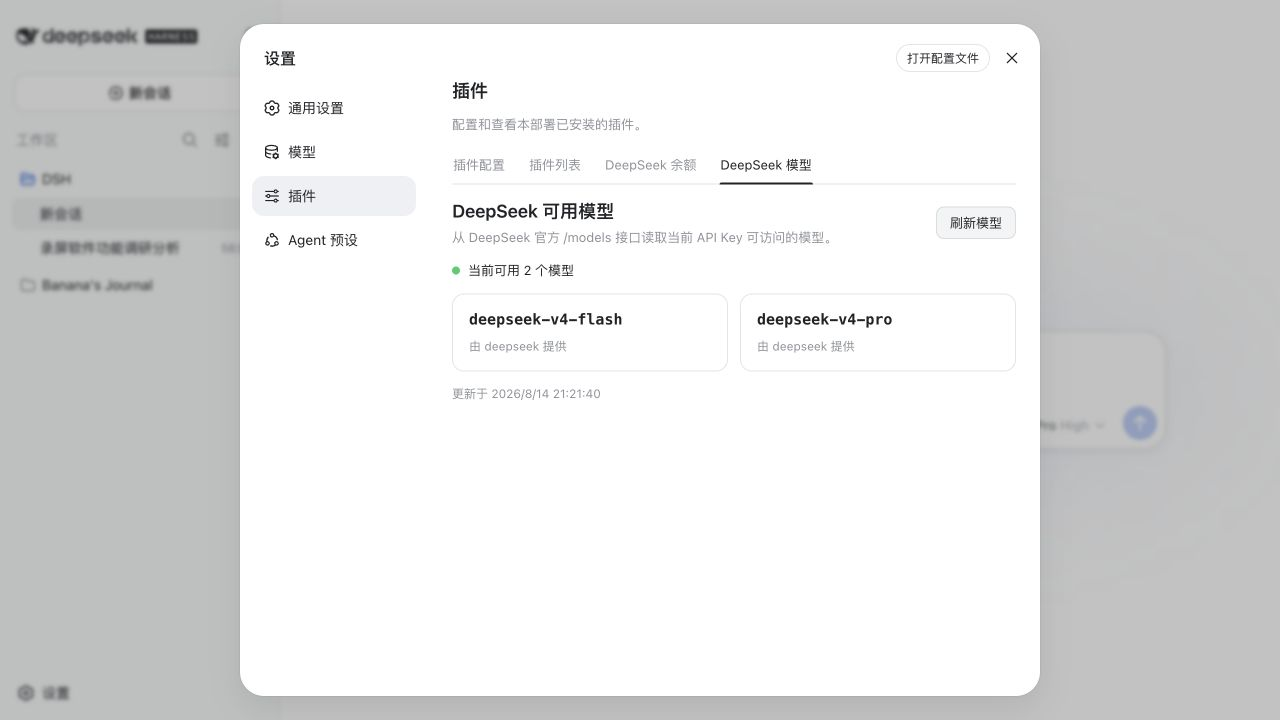
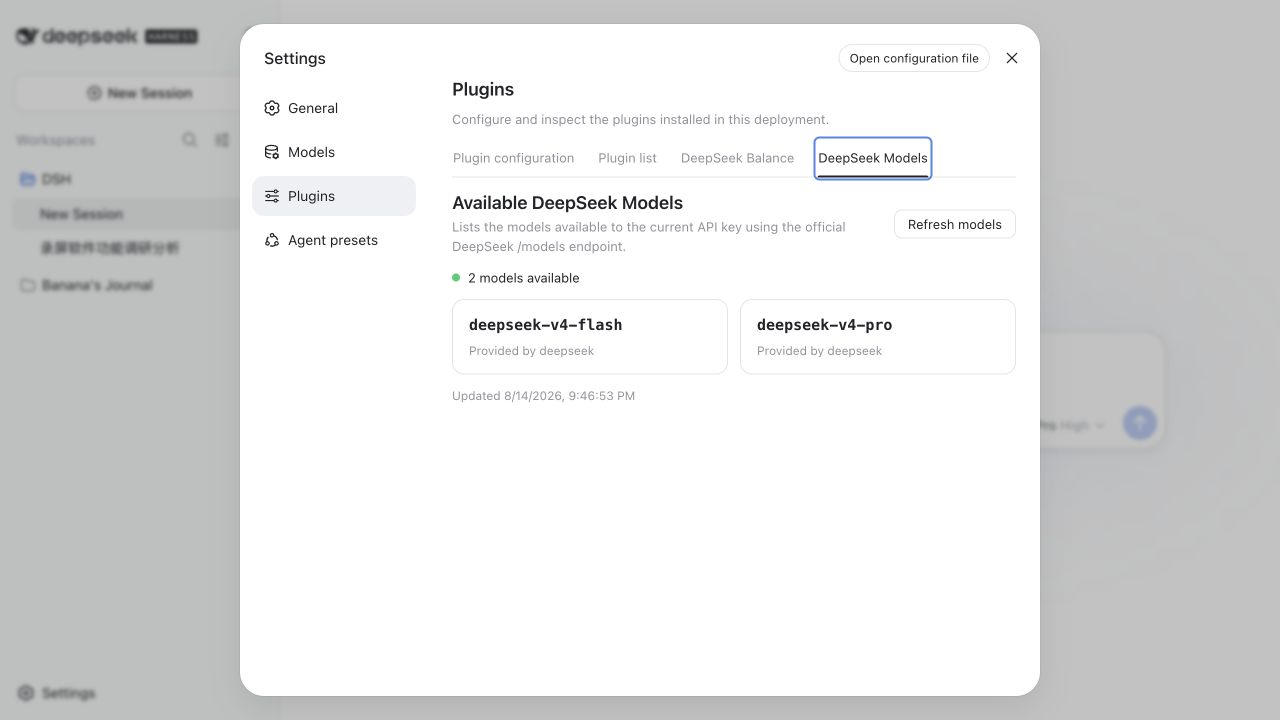
feat: add native en zh localization (#1)
Add native DSH locale support for Simplified Chinese and English, including live language switching, localized balance/model UI, tests, and updated screenshots.

diff --git a/src/client/BalanceTab.tsx b/src/client/BalanceTab.tsx
@@ -1,18 +1,20 @@
 import { useCallback, useEffect, useState } from 'react'
-import type { InjectFace, PropsRuntime } from '@deepseek-ai/dsh-client-ui-slots'
+import type { InjectFace, PropsLocale, PropsRuntime } from '@deepseek-ai/dsh-client-ui-slots'
 import type { BalanceApiResponse, BalanceInfo } from '../types.ts'
+import { errorLocaleKey } from './locales.ts'
+import type { LOCALE_NS } from './locales.ts'
 
 export interface BalanceTabInjected {
   loadBalance: (forceRefresh: boolean, signal: AbortSignal) => Promise<BalanceApiResponse>
 }
 
-export type BalanceTabProps = PropsRuntime<'settings.plugins.tab'> & InjectFace<BalanceTabInjected>
+export type BalanceTabProps = PropsRuntime<'settings.plugins.tab'> & InjectFace<BalanceTabInjected> & PropsLocale<typeof LOCALE_NS>
 
-function displayAmount(value: string, currency: string): string {
+function displayAmount(value: string, currency: string, locale: string): string {
   const amount = Number(value)
   if (!Number.isFinite(amount)) return `${value} ${currency}`
   try {
-    return new Intl.NumberFormat('zh-CN', {
+    return new Intl.NumberFormat(locale, {
       style: 'currency',
       currency,
       minimumFractionDigits: 2,
@@ -23,24 +25,24 @@ function displayAmount(value: string, currency: string): string {
   }
 }
 
-function BalanceCard({ info }: { info: BalanceInfo }) {
+function BalanceCard({ info, t }: { info: BalanceInfo; t: BalanceTabProps['t'] }) {
   return (
     <article className="dsh-balance-card">
       <div className="dsh-balance-card-head">
         <span className="dsh-balance-currency">{info.currency}</span>
       </div>
-      <p className="dsh-balance-total">{displayAmount(info.totalBalance, info.currency)}</p>
+      <p className="dsh-balance-total">{displayAmount(info.totalBalance, info.currency, t('locale.tag'))}</p>
       <dl className="dsh-balance-breakdown">
-        <dt>充值余额</dt>
-        <dd>{displayAmount(info.toppedUpBalance, info.currency)}</dd>
-        <dt>赠送余额</dt>
-        <dd>{displayAmount(info.grantedBalance, info.currency)}</dd>
+        <dt>{t('balance.toppedUp')}</dt>
+        <dd>{displayAmount(info.toppedUpBalance, info.currency, t('locale.tag'))}</dd>
+        <dt>{t('balance.granted')}</dt>
+        <dd>{displayAmount(info.grantedBalance, info.currency, t('locale.tag'))}</dd>
       </dl>
     </article>
   )
 }
 
-export function BalanceTab({ loadBalance }: BalanceTabProps) {
+export function BalanceTab({ loadBalance, t }: BalanceTabProps) {
   const [result, setResult] = useState<BalanceApiResponse>()
   const [loading, setLoading] = useState(true)
 
@@ -53,7 +55,7 @@ export function BalanceTab({ loadBalance }: BalanceTabProps) {
       setResult({
         ok: false,
         code: 'UPSTREAM_UNAVAILABLE',
-        message: error instanceof Error ? error.message : '无法读取余额',
+        message: error instanceof Error ? error.message : '',
       })
     } finally {
       if (!signal.aborted) setLoading(false)
@@ -75,27 +77,27 @@ export function BalanceTab({ loadBalance }: BalanceTabProps) {
     <section className="dsh-balance-tab" aria-labelledby="dsh-balance-title">
       <div className="dsh-balance-summary">
         <div>
-          <h2 id="dsh-balance-title" className="dsh-balance-heading">DeepSeek API 余额</h2>
-          <p className="dsh-balance-copy">余额由本机 Host 使用已保存的 API 密钥查询，密钥不会发送到浏览器。</p>
+          <h2 id="dsh-balance-title" className="dsh-balance-heading">{t('balance.title')}</h2>
+          <p className="dsh-balance-copy">{t('balance.copy')}</p>
         </div>
         <button className="dsh-balance-refresh" type="button" disabled={loading} onClick={refresh}>
-          {loading ? '查询中…' : '刷新余额'}
+          {loading ? t('action.loading') : t('balance.refresh')}
         </button>
       </div>
 
-      {loading && result === undefined ? <p className="dsh-balance-status" role="status">正在查询 DeepSeek 账户余额…</p> : null}
-      {result?.ok === false ? <p className="dsh-balance-error" role="alert">{result.message}</p> : null}
+      {loading && result === undefined ? <p className="dsh-balance-status" role="status">{t('balance.loading')}</p> : null}
+      {result?.ok === false ? <p className="dsh-balance-error" role="alert">{t(errorLocaleKey(result.code))}</p> : null}
       {result?.ok === true ? (
         <>
           <div className="dsh-balance-availability" data-available={String(result.isAvailable)}>
             <span className="dsh-balance-dot" aria-hidden="true" />
-            <span>{result.isAvailable ? '当前账户有可用余额' : '当前账户没有可用余额'}</span>
+            <span>{t(result.isAvailable ? 'balance.available' : 'balance.unavailable')}</span>
           </div>
           {result.balanceInfos.length > 0
-            ? <div className="dsh-balance-grid">{result.balanceInfos.map(info => <BalanceCard key={info.currency} info={info} />)}</div>
-            : <p className="dsh-balance-status">DeepSeek 未返回任何币种余额。</p>}
+            ? <div className="dsh-balance-grid">{result.balanceInfos.map(info => <BalanceCard key={info.currency} info={info} t={t} />)}</div>
+            : <p className="dsh-balance-status">{t('balance.empty')}</p>}
           <p className="dsh-balance-meta">
-            更新于 {new Date(result.fetchedAt).toLocaleString('zh-CN')}{result.source === 'cache' ? ' · 缓存' : ''}
+            {t('meta.updated', { time: new Date(result.fetchedAt).toLocaleString(t('locale.tag')) })}{result.source === 'cache' ? t('meta.cached') : ''}
           </p>
         </>
       ) : null}

diff --git a/src/client/locales.ts b/src/client/locales.ts
@@ -1,0 +1,87 @@
+import type { LocaleDictOf } from '@deepseek-ai/dsh-client-ui-slots'
+import type { DeepSeekApiErrorCode } from '../types.ts'
+
+export const LOCALE_NS = 'dsh-balance'
+
+/** Simplified Chinese dictionary and source of truth for the namespace key set. */
+export const zh = {
+  'locale.tag': 'zh-CN',
+  'tab.balance': 'DeepSeek 余额',
+  'tab.models': 'DeepSeek 模型',
+  'action.loading': '查询中…',
+  'balance.title': 'DeepSeek API 余额',
+  'balance.copy': '余额由本机 Host 使用已保存的 API 密钥查询，密钥不会发送到浏览器。',
+  'balance.refresh': '刷新余额',
+  'balance.loading': '正在查询 DeepSeek 账户余额…',
+  'balance.available': '当前账户有可用余额',
+  'balance.unavailable': '当前账户没有可用余额',
+  'balance.empty': 'DeepSeek 未返回任何币种余额。',
+  'balance.toppedUp': '充值余额',
+  'balance.granted': '赠送余额',
+  'models.title': 'DeepSeek 可用模型',
+  'models.copy': '从 DeepSeek 官方 /models 接口读取当前 API Key 可访问的模型。',
+  'models.refresh': '刷新模型',
+  'models.loading': '正在查询 DeepSeek 模型列表…',
+  'models.count': '当前可用 {count} 个模型',
+  'models.empty': 'DeepSeek 未返回任何可用模型。',
+  'models.owner': '由 {owner} 提供',
+  'meta.updated': '更新于 {time}',
+  'meta.cached': ' · 缓存',
+  'error.FORBIDDEN': '此查询仅允许从本机访问',
+  'error.INVALID_API_KEY': 'DeepSeek API 密钥无效或没有查询权限',
+  'error.INVALID_RESPONSE': 'DeepSeek 返回了无法识别的响应',
+  'error.METHOD_NOT_ALLOWED': '请求方法不受支持',
+  'error.MISSING_API_KEY': '未配置 DeepSeek API 密钥，请先在“模型”设置中保存',
+  'error.RATE_LIMITED': 'DeepSeek API 请求过于频繁，请稍后重试',
+  'error.UPSTREAM_ERROR': 'DeepSeek API 返回了错误',
+  'error.UPSTREAM_TIMEOUT': '查询 DeepSeek API 超时',
+  'error.UPSTREAM_UNAVAILABLE': '无法连接到 DeepSeek API',
+} as const
+
+export type DshBalanceLocaleKey = keyof typeof zh
+
+declare module '@deepseek-ai/dsh-client-ui-slots' {
+  interface LocaleNamespaceMap {
+    /** Balance and model-list settings copy owned by this plugin. */
+    'dsh-balance': DshBalanceLocaleKey
+  }
+}
+
+/** English dictionary, checked complete against the Chinese key set. */
+export const en: LocaleDictOf<typeof LOCALE_NS> = {
+  'locale.tag': 'en-US',
+  'tab.balance': 'DeepSeek Balance',
+  'tab.models': 'DeepSeek Models',
+  'action.loading': 'Loading…',
+  'balance.title': 'DeepSeek API Balance',
+  'balance.copy': 'The local Host queries your balance with the saved API key. The key is never sent to the browser.',
+  'balance.refresh': 'Refresh balance',
+  'balance.loading': 'Loading your DeepSeek API balance…',
+  'balance.available': 'This account has available balance',
+  'balance.unavailable': 'This account has no available balance',
+  'balance.empty': 'DeepSeek returned no currency balances.',
+  'balance.toppedUp': 'Topped-up balance',
+  'balance.granted': 'Granted balance',
+  'models.title': 'Available DeepSeek Models',
+  'models.copy': 'Lists the models available to the current API key using the official DeepSeek /models endpoint.',
+  'models.refresh': 'Refresh models',
+  'models.loading': 'Loading the DeepSeek model list…',
+  'models.count': '{count} models available',
+  'models.empty': 'DeepSeek returned no available models.',
+  'models.owner': 'Provided by {owner}',
+  'meta.updated': 'Updated {time}',
+  'meta.cached': ' · Cached',
+  'error.FORBIDDEN': 'This query is available only from the local machine',
+  'error.INVALID_API_KEY': 'The DeepSeek API key is invalid or lacks permission',
+  'error.INVALID_RESPONSE': 'DeepSeek returned an unrecognized response',
+  'error.METHOD_NOT_ALLOWED': 'This request method is not supported',
+  'error.MISSING_API_KEY': 'No DeepSeek API key is configured. Save one in Models settings first.',
+  'error.RATE_LIMITED': 'Too many DeepSeek API requests. Try again later.',
+  'error.UPSTREAM_ERROR': 'The DeepSeek API returned an error',
+  'error.UPSTREAM_TIMEOUT': 'The DeepSeek API request timed out',
+  'error.UPSTREAM_UNAVAILABLE': 'Could not connect to the DeepSeek API',
+}
+
+export function errorLocaleKey(code: DeepSeekApiErrorCode): DshBalanceLocaleKey {
+  return `error.${code}`
+}

diff --git a/src/client/ModelsTab.tsx b/src/client/ModelsTab.tsx
@@ -1,23 +1,25 @@
 import { useCallback, useEffect, useState } from 'react'
-import type { InjectFace, PropsRuntime } from '@deepseek-ai/dsh-client-ui-slots'
+import type { InjectFace, PropsLocale, PropsRuntime } from '@deepseek-ai/dsh-client-ui-slots'
 import type { ModelInfo, ModelsApiResponse } from '../types.ts'
+import { errorLocaleKey } from './locales.ts'
+import type { LOCALE_NS } from './locales.ts'
 
 export interface ModelsTabInjected {
   loadModels: (forceRefresh: boolean, signal: AbortSignal) => Promise<ModelsApiResponse>
 }
 
-export type ModelsTabProps = PropsRuntime<'settings.plugins.tab'> & InjectFace<ModelsTabInjected>
+export type ModelsTabProps = PropsRuntime<'settings.plugins.tab'> & InjectFace<ModelsTabInjected> & PropsLocale<typeof LOCALE_NS>
 
-function ModelCard({ model }: { model: ModelInfo }) {
+function ModelCard({ model, t }: { model: ModelInfo; t: ModelsTabProps['t'] }) {
   return (
     <article className="dsh-model-card">
       <code className="dsh-model-id">{model.id}</code>
-      <span className="dsh-model-owner">由 {model.ownedBy} 提供</span>
+      <span className="dsh-model-owner">{t('models.owner', { owner: model.ownedBy })}</span>
     </article>
   )
 }
 
-export function ModelsTab({ loadModels }: ModelsTabProps) {
+export function ModelsTab({ loadModels, t }: ModelsTabProps) {
   const [result, setResult] = useState<ModelsApiResponse>()
   const [loading, setLoading] = useState(true)
 
@@ -30,7 +32,7 @@ export function ModelsTab({ loadModels }: ModelsTabProps) {
       setResult({
         ok: false,
         code: 'UPSTREAM_UNAVAILABLE',
-        message: error instanceof Error ? error.message : '无法读取模型列表',
+        message: error instanceof Error ? error.message : '',
       })
     } finally {
       if (!signal.aborted) setLoading(false)
@@ -52,27 +54,27 @@ export function ModelsTab({ loadModels }: ModelsTabProps) {
     <section className="dsh-models-tab" aria-labelledby="dsh-models-title">
       <div className="dsh-balance-summary">
         <div>
-          <h2 id="dsh-models-title" className="dsh-balance-heading">DeepSeek 可用模型</h2>
-          <p className="dsh-balance-copy">从 DeepSeek 官方 /models 接口读取当前 API Key 可访问的模型。</p>
+          <h2 id="dsh-models-title" className="dsh-balance-heading">{t('models.title')}</h2>
+          <p className="dsh-balance-copy">{t('models.copy')}</p>
         </div>
         <button className="dsh-balance-refresh" type="button" disabled={loading} onClick={refresh}>
-          {loading ? '查询中…' : '刷新模型'}
+          {loading ? t('action.loading') : t('models.refresh')}
         </button>
       </div>
 
-      {loading && result === undefined ? <p className="dsh-balance-status" role="status">正在查询 DeepSeek 模型列表…</p> : null}
-      {result?.ok === false ? <p className="dsh-balance-error" role="alert">{result.message}</p> : null}
+      {loading && result === undefined ? <p className="dsh-balance-status" role="status">{t('models.loading')}</p> : null}
+      {result?.ok === false ? <p className="dsh-balance-error" role="alert">{t(errorLocaleKey(result.code))}</p> : null}
       {result?.ok === true ? (
         <>
           <div className="dsh-model-count">
             <span className="dsh-balance-dot" aria-hidden="true" />
-            <span>当前可用 {result.models.length} 个模型</span>
+            <span>{t('models.count', { count: result.models.length })}</span>
           </div>
           {result.models.length > 0
-            ? <div className="dsh-model-grid">{result.models.map(model => <ModelCard key={model.id} model={model} />)}</div>
-            : <p className="dsh-balance-status">DeepSeek 未返回任何可用模型。</p>}
+            ? <div className="dsh-model-grid">{result.models.map(model => <ModelCard key={model.id} model={model} t={t} />)}</div>
+            : <p className="dsh-balance-status">{t('models.empty')}</p>}
           <p className="dsh-balance-meta">
-            更新于 {new Date(result.fetchedAt).toLocaleString('zh-CN')}{result.source === 'cache' ? ' · 缓存' : ''}
+            {t('meta.updated', { time: new Date(result.fetchedAt).toLocaleString(t('locale.tag')) })}{result.source === 'cache' ? t('meta.cached') : ''}
           </p>
         </>
       ) : null}

diff --git a/src/client/index.tsx b/src/client/index.tsx
@@ -1,4 +1,5 @@
 import type { ClientContext } from '@deepseek-ai/dsh-client-runtime/client'
+import type {} from '@deepseek-ai/dsh-client-locale/client'
 import type {} from '@deepseek-ai/dsh-client-ui-settings/client'
 import type { BalanceApiResponse, ModelsApiResponse } from '../types.ts'
 import { BALANCE_ROUTE, MODELS_ROUTE } from '../types.ts'
@@ -6,12 +7,13 @@ import { BalanceTab } from './BalanceTab.tsx'
 import type { BalanceTabInjected } from './BalanceTab.tsx'
 import { ModelsTab } from './ModelsTab.tsx'
 import type { ModelsTabInjected } from './ModelsTab.tsx'
+import { en, LOCALE_NS, zh } from './locales.ts'
 import { balanceStyles } from './styles.ts'
 
 export type { BalanceTabInjected, BalanceTabProps } from './BalanceTab.tsx'
 export type { ModelsTabInjected, ModelsTabProps } from './ModelsTab.tsx'
 
-export const inject = ['slots']
+export const inject = ['slots', 'locale']
 
 async function loadBalance(forceRefresh: boolean, signal: AbortSignal): Promise<BalanceApiResponse> {
   const url = forceRefresh ? `${BALANCE_ROUTE}?refresh=1` : BALANCE_ROUTE
@@ -45,6 +47,12 @@ async function loadModels(forceRefresh: boolean, signal: AbortSignal): Promise<M
 
 /** Register one feature-owned page inside the existing Plugins settings section. */
 export function apply(ctx: ClientContext): void {
+  ctx.effect(
+    () => ctx.locale.register(LOCALE_NS, { zh, en }),
+    'dsh-balance: dictionaries',
+  )
+  const t = ctx.locale.bind(LOCALE_NS)
+
   ctx.effect(() => {
     const style = document.createElement('style')
     style.dataset.plugin = 'dsh-balance'
@@ -58,14 +66,16 @@ export function apply(ctx: ClientContext): void {
     name: 'settings.plugins.tab',
     id: 'deepseek-balance',
     order: 20,
-    label: 'DeepSeek 余额',
+    label: () => t('tab.balance'),
+    locale: LOCALE_NS,
     inject: (): BalanceTabInjected => ({ loadBalance }),
   }, BalanceTab))
   ctx.slots.inject('settings.plugins.tab', () => ctx.slots.register({
     name: 'settings.plugins.tab',
     id: 'deepseek-models',
     order: 21,
-    label: 'DeepSeek 模型',
+    label: () => t('tab.models'),
+    locale: LOCALE_NS,
     inject: (): ModelsTabInjected => ({ loadModels }),
   }, ModelsTab))
 }

diff --git a/tests/locales.test.ts b/tests/locales.test.ts
@@ -1,0 +1,27 @@
+import { describe, expect, it } from 'vitest'
+import { en, errorLocaleKey, zh } from '../src/client/locales.ts'
+import type { DeepSeekApiErrorCode } from '../src/types.ts'
+
+describe('client locales', () => {
+  it('keeps the English dictionary in sync with Chinese', () => {
+    expect(Object.keys(en).sort()).toEqual(Object.keys(zh).sort())
+    expect(Object.values(en).every(Boolean)).toBe(true)
+    expect(Object.values(zh).every(Boolean)).toBe(true)
+  })
+
+  it('maps every API error code to a translated key', () => {
+    const codes: DeepSeekApiErrorCode[] = [
+      'FORBIDDEN',
+      'INVALID_API_KEY',
+      'INVALID_RESPONSE',
+      'METHOD_NOT_ALLOWED',
+      'MISSING_API_KEY',
+      'RATE_LIMITED',
+      'UPSTREAM_ERROR',
+      'UPSTREAM_TIMEOUT',
+      'UPSTREAM_UNAVAILABLE',
+    ]
+
+    expect(codes.map(errorLocaleKey)).toEqual(codes.map(code => `error.${code}`))
+  })
+})

diff --git a/README_EN.md b/README_EN.md
@@ -13,6 +13,7 @@ A DeepSeek Harness Settings plugin for checking API balances and available model
 - View total, topped-up, and granted balances
 - View models available to the current API key
 - Cache query results with manual refresh support
+- Native Simplified Chinese and English that follows the Harness system language
 - Use the `DEEPSEEK_API_KEY` saved by Harness
 
 ## Install

diff --git a/README.md b/README.md
@@ -13,6 +13,7 @@ DeepSeek Harness 设置插件，用于查询 API 余额和当前可用模型。A
 - 查看总余额、充值余额和赠送余额
 - 查看当前 API Key 可用的模型
 - 缓存查询结果并支持手动刷新
+- 原生支持简体中文和英文，并跟随 Harness 系统语言切换
 - 支持 Harness 已保存的 `DEEPSEEK_API_KEY`
 
 ## 安装
